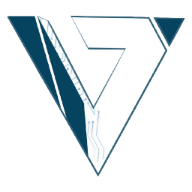
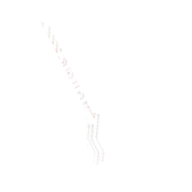
Updated files

diff --git a/components/About/index.tsx b/components/About/index.tsx
@@ -6,7 +6,7 @@ const About = () => {
         <div className={styles.container}>
             <div className={styles.aboutLogo}>
                 <Image
-                    src="/vidyuth-logo.png"
+                    src="/transparent-v.png"
                     alt="Vidyuth logo"
                     className={styles.img}
                     // width={400}

diff --git a/components/Navbar/index.tsx b/components/Navbar/index.tsx
@@ -6,7 +6,7 @@ const Navbar = () => {
         <div className={styles.container}>
             <Link href="/">
                 <Image
-                    src="/vidyuth-logo.png"
+                    src="/transparent-v.png"
                     alt="vidyuth logo"
                     width={32}
                     height={32}
